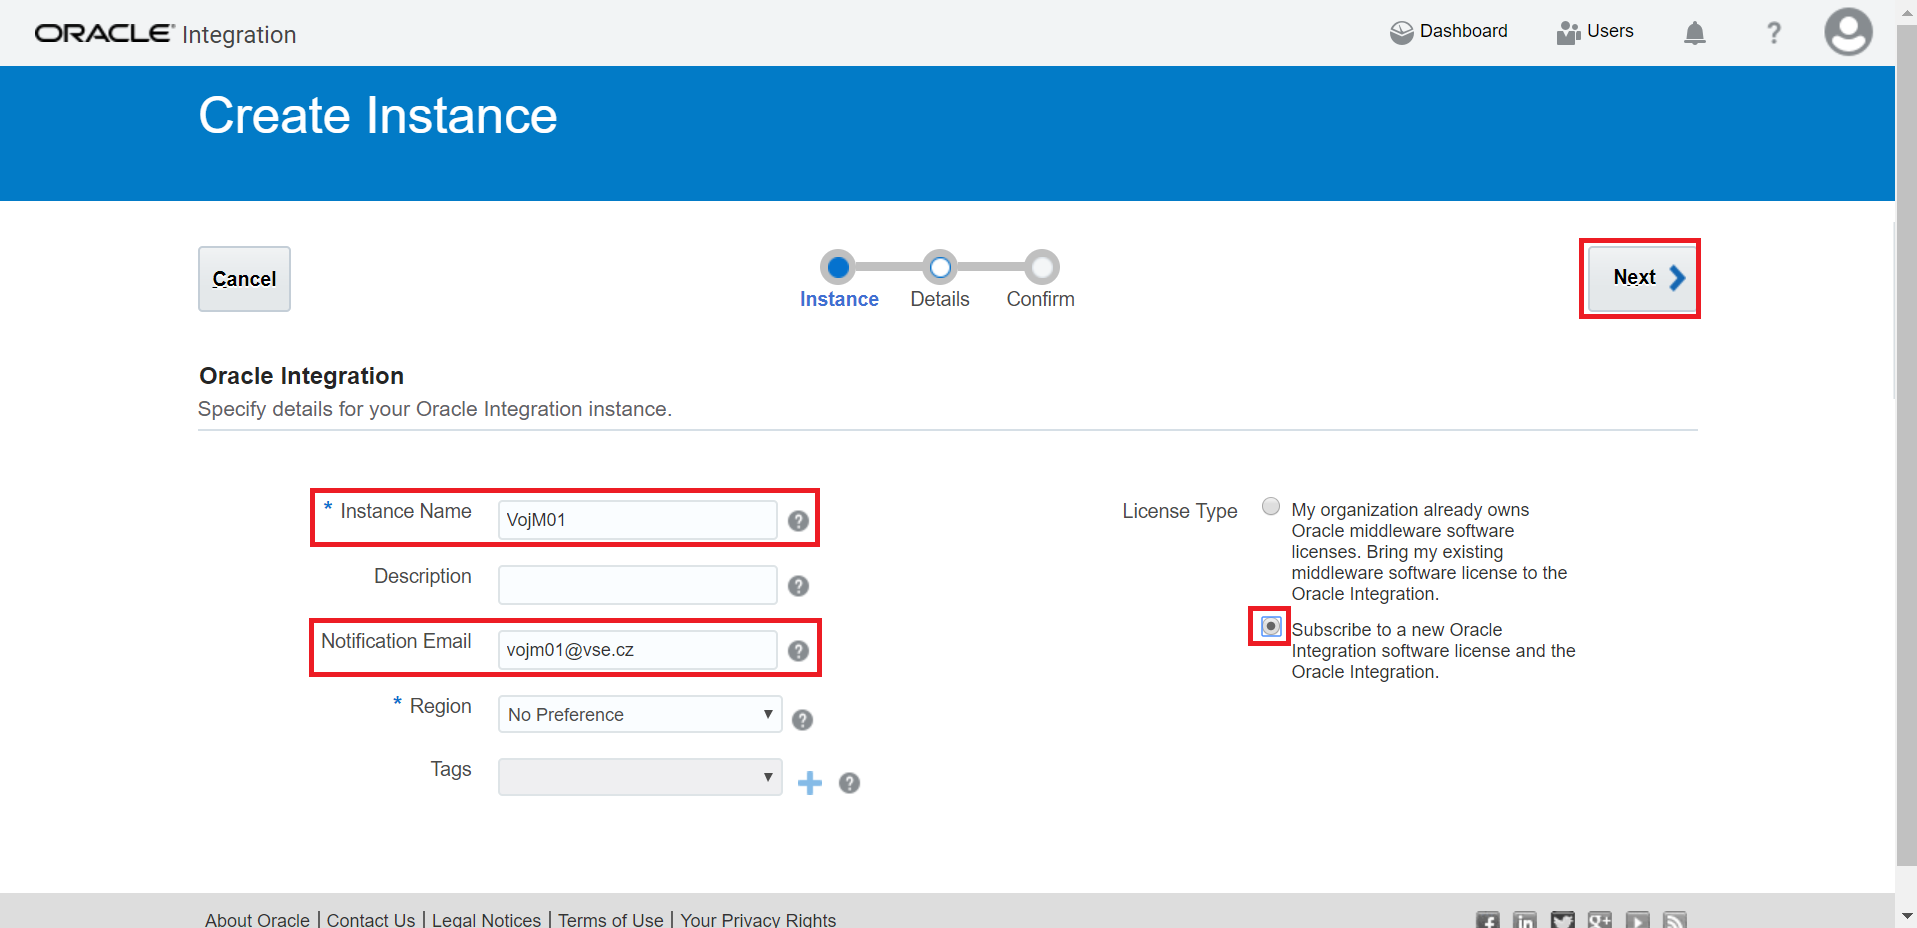
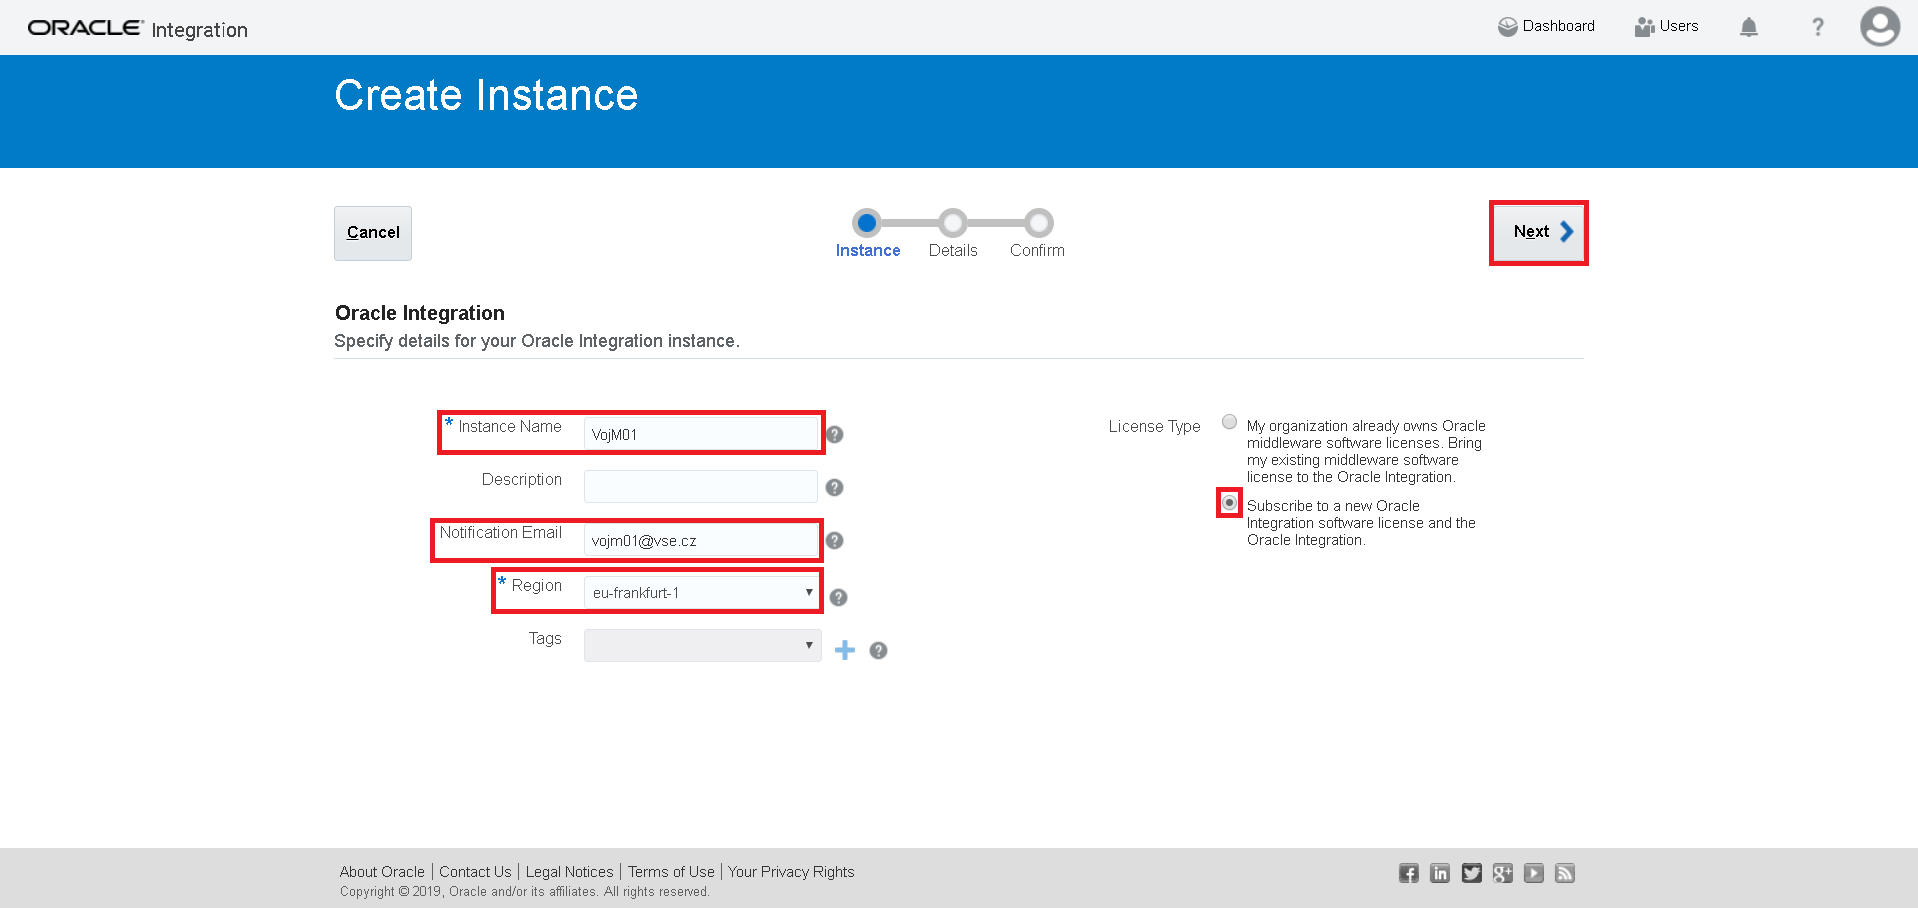
Setup Frankfurt as preferred Region

diff --git a/Integration/IntegrationCloudService/lab00.md b/Integration/IntegrationCloudService/lab00.md
@@ -32,7 +32,11 @@ This lab covers a set of prerequisites for running workshop hands-on activities
 
 ![](images/lab00/img0060.png)
 
--	Enter **Instance Name**, **Notification Email** and click on **Subscribe to a new Oracle Integration software license**; click **Next**
+-	Fill up Instace details:
+	* Enter **Instance Name**, **Notification Email**
+	* Select **eu-frankfurt-1** for **Region** 
+	* Choose to **Subscribe to a new Oracle Integration software license**
+	* click **Next**
 
 ![](images/lab00/img0070.png)
 

diff --git a/Integration/IntegrationCloudService/Home.md b/Integration/IntegrationCloudService/Home.md
@@ -10,6 +10,7 @@ No expertise or previous experience is required.
 - At top right corner click a button **Try for Free**
 
 - Follow the wizard to **Sign Up**.
+    * When selecting **Home Region**, please use **EMEA -> Frankfurt**
 
 - Login to Your Cloud account
 
